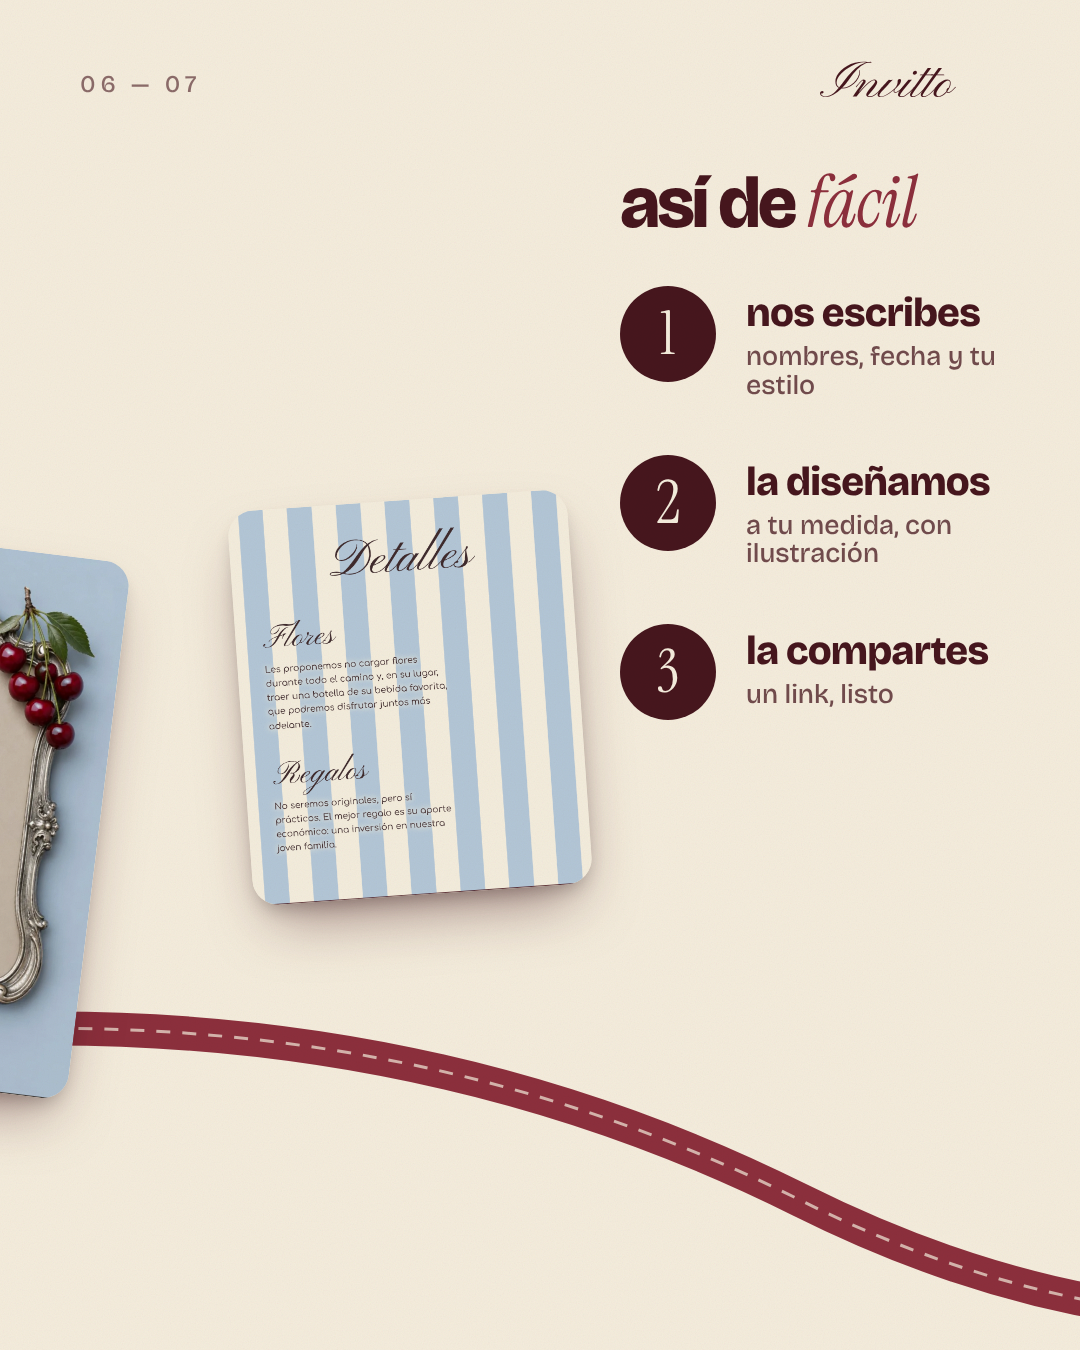
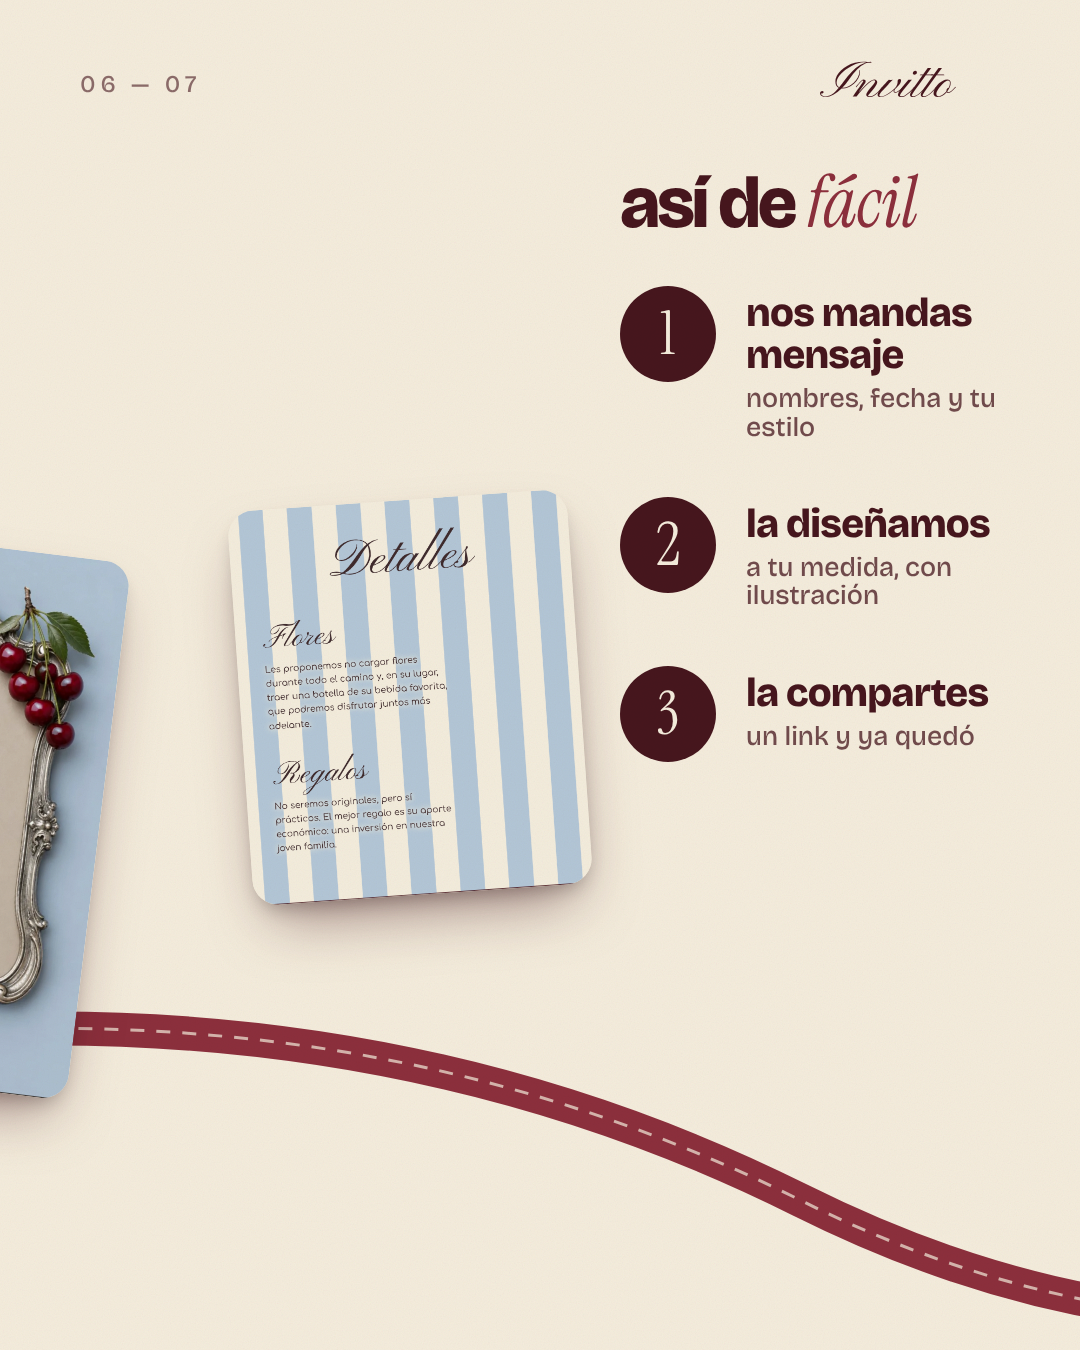
Use Mexican Spanish copy in Invitto designs and skill
Claude-Session: https://claude.ai/code/session_01EgrmTqtpGfwNVupVBLTceP

Changed region(s): [[0.55, 0.2178, 0.9167, 0.5911]]

diff --git a/disenos/invitto-carrusel-panoramico.html b/disenos/invitto-carrusel-panoramico.html
@@ -37,9 +37,9 @@ body{width:7560px;height:1350px;position:relative;overflow:hidden;background:#F4
 <div class="a ser it" style="left:80px;top:720px;font-size:84px">esto pasó <span style="font-family:Bricolage Grotesque;font-style:normal">→</span></div>
 <div class="a hand" style="left:700px;top:800px;font-size:44px;transform:rotate(-6deg)">(spoiler:<br>nadie la perdió)</div><div class="a big" style="left:1160px;top:170px;font-size:110px">antes<span class="ser it" style="color:#8c2f3c">…</span></div>
 <div class="a paper" style="left:1160px;top:360px;width:760px;transform:rotate(-3deg)">
- <div class="li">✗ <s>3 semanas de imprenta</s></div><div class="li">✗ <s>sobres, timbres, entregas</s></div>
+ <div class="li">✗ <s>3 semanas de imprenta</s></div><div class="li">✗ <s>sobres, vueltas y entregas</s></div>
  <div class="li">✗ <s>“¿cuál era la dirección?”</s></div><div class="li">✗ <s>perseguir confirmaciones</s></div><div class="li" style="margin:0">✗ <s>la mitad termina en un cajón</s></div></div>
-<div class="a hand" style="left:1600px;top:880px;font-size:46px;transform:rotate(5deg)">agotador ☹</div><div class="a big" style="left:2240px;top:170px;font-size:110px">después<span class="ser it" style="color:#8c2f3c">:</span></div>
+<div class="a hand" style="left:1600px;top:880px;font-size:46px;transform:rotate(5deg)">qué flojera ☹</div><div class="a big" style="left:2240px;top:170px;font-size:110px">después<span class="ser it" style="color:#8c2f3c">:</span></div>
 <div class="a ser it" style="left:2240px;top:320px;font-size:70px;width:560px;line-height:1">un link que mandas por WhatsApp</div>
 <div class="a phone" style="left:3020px;top:190px;transform:rotate(6deg)"><img src="invitto-muestra.png"></div>
 <div class="a hand" style="left:2280px;top:640px;font-size:46px;transform:rotate(-5deg)">y se abre así ↗</div><div class="a stat" style="left:3660px;top:170px"><b>1</b><span>solo link para todos</span></div>
@@ -51,10 +51,10 @@ body{width:7560px;height:1350px;position:relative;overflow:hidden;background:#F4
 <div class="a card" style="left:5640px;top:500px;width:340px;transform:rotate(-4deg)"><img src="inv-sec-6.png"></div>
 <div class="a hand" style="left:4440px;top:400px;font-size:42px;transform:rotate(-2deg)">fecha · horarios · mapa · regalos · dress code</div><div class="a" style="left:6020px;top:170px;width:400px">
  <div class="big" style="font-size:72px;margin-bottom:50px">así de <span class="ser it" style="color:#8c2f3c">fácil</span></div>
- <div class="step"><i>1</i><div>nos escribes<small>nombres, fecha y tu estilo</small></div></div>
+ <div class="step"><i>1</i><div>nos mandas mensaje<small>nombres, fecha y tu estilo</small></div></div>
  <div class="step"><i>2</i><div>la diseñamos<small>a tu medida, con ilustración</small></div></div>
- <div class="step"><i>3</i><div>la compartes<small>un link, listo</small></div></div></div><div class="a" style="left:6480px;width:1080px;top:280px;text-align:center;color:#F4ECDC">
+ <div class="step"><i>3</i><div>la compartes<small>un link y ya quedó</small></div></div></div><div class="a" style="left:6480px;width:1080px;top:280px;text-align:center;color:#F4ECDC">
  <div style="font-family:Pinyon Script;font-size:190px;line-height:1">Invitto</div>
- <div class="big" style="font-size:90px;margin-top:70px">¿la quieres para <span class="ser it" style="color:#b3c6d6">tu</span> boda?</div>
- <div style="margin-top:70px"><span class="btn">Escríbenos por DM →</span></div>
- <div class="hand" style="color:#b3c6d6;font-size:44px;margin-top:50px;transform:rotate(-3deg)">guárdalo para cuando la necesites ↓</div></div><svg class="grain" width="7560" height="1350"><filter id="nz"><feTurbulence type="fractalNoise" baseFrequency=".85" numOctaves="3"/></filter><rect width="100%" height="100%" filter="url(#nz)"/></svg></body></html>
+ <div class="big" style="font-size:90px;margin-top:70px">¿te late para <span class="ser it" style="color:#b3c6d6">tu</span> boda?</div>
+ <div style="margin-top:70px"><span class="btn">Mándanos DM →</span></div>
+ <div class="hand" style="color:#b3c6d6;font-size:44px;margin-top:50px;transform:rotate(-3deg)">guárdalo pa’ cuando la necesites ↓</div></div><svg class="grain" width="7560" height="1350"><filter id="nz"><feTurbulence type="fractalNoise" baseFrequency=".85" numOctaves="3"/></filter><rect width="100%" height="100%" filter="url(#nz)"/></svg></body></html>

diff --git a/disenos/invitto-carrusel.html b/disenos/invitto-carrusel.html
@@ -28,7 +28,7 @@
 <svg width="0" height="0" style="position:absolute"><filter id="nz"><feTurbulence type="fractalNoise" baseFrequency=".85" numOctaves="3"/></filter></svg>
 <div class="s dark" id="c1"><div class="n">01 / 07</div><div class="lg">Invitto</div><div class="t" style="top:170px;font-size:92px;width:500px">así se ve una invitación que <em>sí</em> <span class="hl">abren</span></div>
 <div class="phone" style="right:70px;top:200px;transform:rotate(5deg)"><img src="invitto-muestra.png"></div>
-<div class="hand" style="left:80px;top:760px;transform:rotate(-6deg)">(y que nadie<br>pierde en un cajón)</div>
+<div class="hand" style="left:80px;top:760px;transform:rotate(-6deg)">(y que nadie<br>deja olvidada en un cajón)</div>
 <div class="sw" style="left:80px;right:auto;bottom:140px">desliza <svg width="56" height="24"><path d="M0 12h50M40 2l12 10-12 10" stroke="currentColor" stroke-width="4" fill="none" stroke-linecap="round"/></svg></div><svg class="grain" width="1080" height="1350"><rect width="100%" height="100%" filter="url(#nz)"/></svg><div class="stripes"></div></div>
 <div class="s " id="c2"><div class="n">02 / 07</div><div class="lg">Invitto</div><div class="t">todo empieza con un <em>save</em> <span class="hl">the date</span></div>
 <div class="p" style="top:520px">Una carta con su calendario y el día marcado. Así nadie se equivoca de fecha.</div>
@@ -51,7 +51,7 @@
 <div class="p" style="left:680px;top:560px;width:330px">Nombre, si asisten y cuántos acompañantes. Tú tienes tu lista lista.</div>
 <div class="hand" style="left:700px;top:900px;transform:rotate(5deg)">adiós a perseguir<br>a tus tíos ☺</div><svg class="grain" width="1080" height="1350"><rect width="100%" height="100%" filter="url(#nz)"/></svg><div class="stripes"></div></div>
 <div class="s dark" id="c7"><div class="n">07 / 07</div><div class="lg">Invitto</div><div style="position:absolute;left:0;right:0;top:300px;text-align:center;font-family:'Pinyon Script';font-size:200px;line-height:1">Invitto</div>
-<div class="t" style="top:600px;text-align:center;font-size:96px">¿la quieres para <em>tu</em> <span class="hl">boda</span>?</div>
-<div style="position:absolute;left:0;right:0;top:900px;text-align:center"><span class="btn">Escríbenos por DM →</span></div>
-<div class="hand" style="left:0;right:0;top:1060px;text-align:center;transform:rotate(-3deg)">guarda este post para cuando la necesites ↓</div><svg class="grain" width="1080" height="1350"><rect width="100%" height="100%" filter="url(#nz)"/></svg><div class="stripes"></div></div>
+<div class="t" style="top:600px;text-align:center;font-size:96px">¿te late para <em>tu</em> <span class="hl">boda</span>?</div>
+<div style="position:absolute;left:0;right:0;top:900px;text-align:center"><span class="btn">Mándanos DM →</span></div>
+<div class="hand" style="left:0;right:0;top:1060px;text-align:center;transform:rotate(-3deg)">guárdalo pa’ cuando la necesites ↓</div><svg class="grain" width="1080" height="1350"><rect width="100%" height="100%" filter="url(#nz)"/></svg><div class="stripes"></div></div>
 </body></html>

diff --git a/disenos/invitto-ad.html b/disenos/invitto-ad.html
@@ -28,9 +28,9 @@ body{width:1080px;height:1350px;overflow:hidden;position:relative;background:#F4
 <div class="blob"></div><div class="stripes"></div>
 <div class="logo">Invitto<small>INVITACIONES DIGITALES</small></div>
 <div class="h">tu boda,<br><em>en un</em> <span class="hl">link</span></div>
-<div class="sub">Diseño de ilustrador, en el celular de todos tus invitados. Sin imprimir, sin perder ninguna.</div>
+<div class="sub">Diseño de ilustrador, en el celular de todos tus invitados. Sin imprimir y sin que se pierda ninguna.</div>
 <div class="feat"><span>✓ confirmación por WhatsApp</span><span>📍 mapa</span><span>dress code</span><span>mesa de regalos</span></div>
-<div class="cta"><i>¡cupos limitados este mes!</i><b>Pide la tuya →</b></div>
+<div class="cta"><i>¡quedan pocos lugares este mes!</i><b>Mándanos mensaje →</b></div>
 <div class="phone"><img src="invitto-muestra.png"><div class="notch"></div></div>
 <div class="sticker"><div>100%<br>a tu medida<b>BODAS · XV</b></div></div>
 <svg class="grain" width="1080" height="1350"><filter id="n"><feTurbulence type="fractalNoise" baseFrequency=".85" numOctaves="3"/></filter><rect width="100%" height="100%" filter="url(#n)"/></svg>

diff --git a/.claude/skills/disenos-aesthetic/SKILL.md b/.claude/skills/disenos-aesthetic/SKILL.md
@@ -82,6 +82,12 @@ Siempre: @usuario abajo, márgenes ≥80px, títulos 90–170px en 1080 de ancho
 
 **Tipografías de tendencia 2026** (Google Fonts): Instrument Serif (la serif de moda, úsala en itálica), Bricolage Grotesque 800 (titulares con tracking negativo −0.04em), Unbounded (números/display), Fraunces, DM Serif Display, Caveat / Gochi Hand (notas a mano). Combinación ganadora: **sans ultra bold + serif itálica en la misma frase**.
 
+## 4c. Idioma: español de México
+Todo el texto va en **español mexicano** natural, como habla la gente en Instagram:
+- Usa "tú" (nunca "vos" ni "vosotros"); "celular", "mándanos mensaje/DM", "pa’", "¿te late?", "qué flojera", "ya quedó", "padrísimo", "mesa de regalos", "XV años".
+- Evita españolismos ("guay", "móvil", "vale", "ordenador", "coger") y frases neutras de traductor.
+- Fechas dd/mm/aaaa, horas tipo "9 pm", precios en $ MXN.
+
 ## 5. Composición
 - Márgenes generosos (≥6% del ancho). El espacio vacío es lo que lo hace "aesthetic".
 - Usa un eje: centrado simétrico (minimal, invitaciones) o asimetría intencional (editorial, collage).
